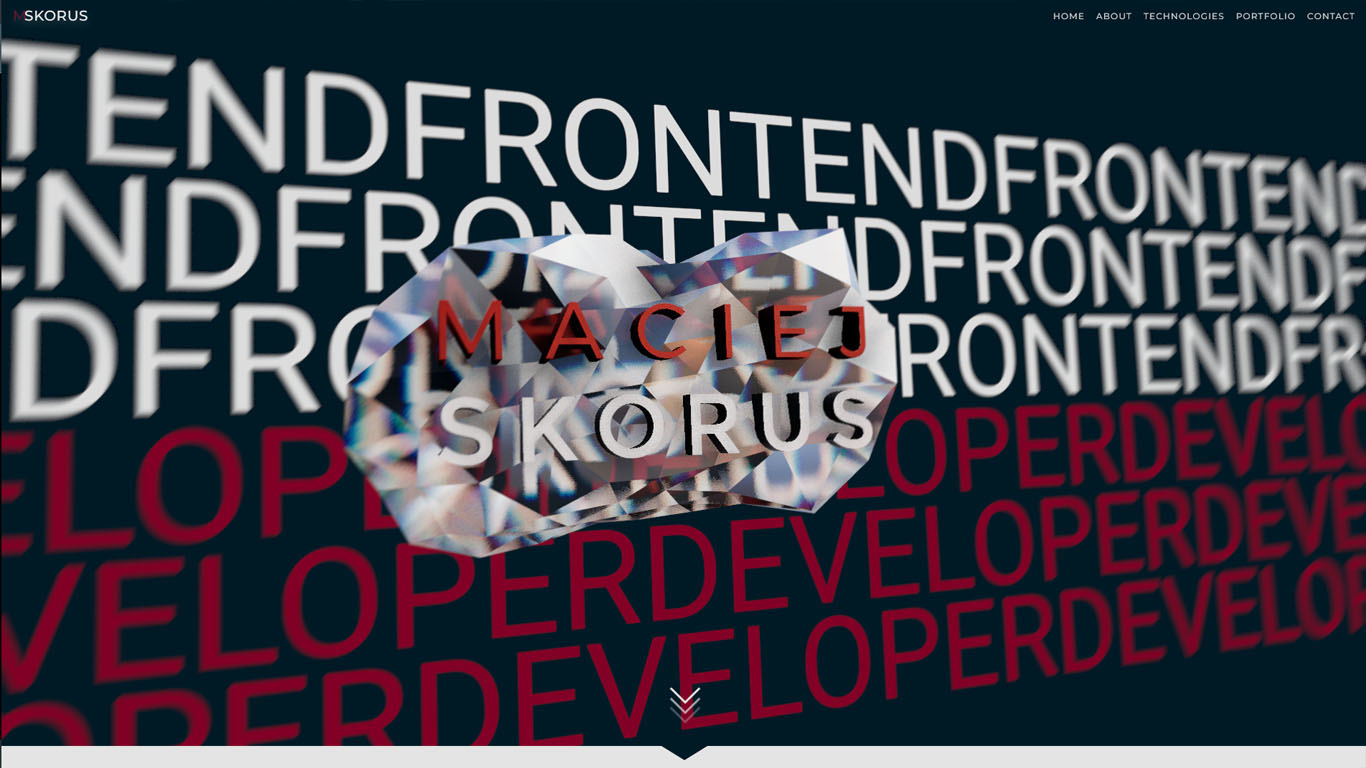
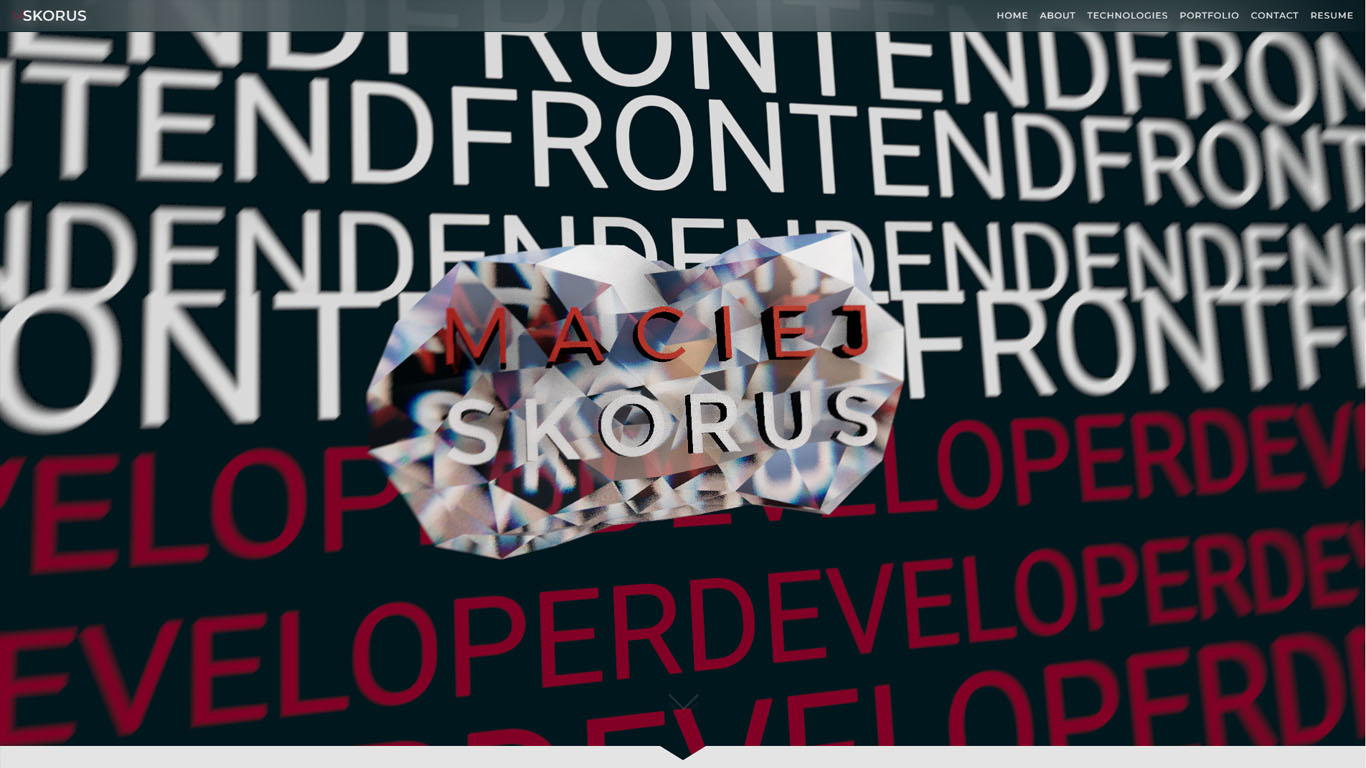
feat: responsive contact, intersection observer for WebGL scene

diff --git a/src/components/Contact/Contact.tsx b/src/components/Contact/Contact.tsx
@@ -5,61 +5,59 @@ export default function Contact(): JSX.Element {
   return (
     <section
       id='contact'
-      className='font-mont ny-20 relative flex h-auto w-full flex-col items-center justify-center bg-white'
+      className='font-mont ny-20 relative flex h-auto w-full flex-col items-center justify-center overflow-hidden bg-white'
     >
       <div className='arrow-down blue' />
       <h3 className='font-mont text-primary-blue -left-6 top-[150px] mt-[60px] text-xl font-[500] leading-3 tracking-[10px] md:absolute md:mt-0 md:-rotate-90'>
         CONTACT
       </h3>
-      <div className='gradient-slow border-primary-blue my-20 mt-10 flex h-[500px] w-[400px] flex-col items-center gap-3 border-t-2 text-white md:my-20 md:flex-col'>
+      <div className='gradient-slow border-primary-blue xsm:w-[450px] my-20 mt-10 flex h-full w-full flex-col items-center gap-3 border-t-2 text-white md:my-20 md:flex-col'>
         <IoMailOpenSharp className='text-primary-blue my-2 text-center text-8xl' />
-        <form>
-          <div className='flex justify-between gap-2'>
-            <div className='relative h-11 w-full min-w-[180px]'>
+        <form className='w-full px-6'>
+          <div className='xsm:flex-row xsm:gap-2 mb-3 flex w-full flex-col justify-between gap-5'>
+            <div className='xsm:min-w-[180px] relative h-11 w-full'>
               <input
-                className='focus:border-orange border-primary-blue text-primary-blue placeholder-shown:border-primary-blue disabled:bg-primary-blue peer h-full w-full border-b bg-transparent pb-1.5 pt-4 font-sans text-sm font-normal outline outline-0 transition-all focus:outline-0 disabled:border-0'
+                className='focus:border-orange border-primary-blue placeholder-shown:border-primary-blue disabled:bg-primary-blue font-mont peer h-full w-full border-b bg-transparent px-2 pb-1.5 pt-4 text-sm font-[500] text-white outline outline-0 transition-all focus:outline-0 disabled:border-0'
                 placeholder=' '
               />
-              <label className="after:content[' '] pointer-events-none absolute -top-1.5 left-0 flex h-full w-full select-none text-[11px] font-normal leading-tight text-white transition-all after:absolute after:-bottom-1.5 after:block after:w-full after:scale-x-0 after:border-b-2 after:border-white after:transition-transform after:duration-300 peer-placeholder-shown:text-sm peer-placeholder-shown:leading-[4.25] peer-placeholder-shown:text-white peer-focus:text-[11px] peer-focus:leading-tight peer-focus:text-white peer-focus:after:scale-x-100 peer-focus:after:border-white peer-disabled:text-transparent peer-disabled:peer-placeholder-shown:text-white">
+              <label className="after:content[' '] after: text-primary-blue pointer-events-none absolute -top-1.5 left-0 flex h-full w-full select-none text-[11px] font-normal leading-tight transition-all after:absolute after:-bottom-1.5 after:block after:w-full after:scale-x-0 after:border-b-2 after:border-white after:transition-transform after:duration-300 peer-placeholder-shown:text-sm peer-placeholder-shown:leading-[4.25] peer-placeholder-shown:text-white peer-focus:text-[11px] peer-focus:leading-tight peer-focus:text-white peer-focus:after:scale-x-100 peer-focus:after:border-white peer-disabled:text-transparent peer-disabled:peer-placeholder-shown:text-white">
                 Your name
               </label>
             </div>
             <div className='relative h-11 w-full min-w-[180px]'>
               <input
-                className='focus:border-orange border-primary-blue text-primary-blue placeholder-shown:border-primary-blue disabled:bg-primary-blue peer h-full w-full border-b bg-transparent pb-1.5 pt-4 font-sans text-sm font-normal outline outline-0 transition-all focus:outline-0 disabled:border-0'
+                className='focus:border-orange border-primary-blue placeholder-shown:border-primary-blue disabled:bg-primary-blue font-mont peer h-full w-full border-b bg-transparent px-2 pb-1.5 pt-4 text-sm font-[500] text-white outline outline-0 transition-all focus:outline-0 disabled:border-0'
                 placeholder=' '
               />
-              <label className="after:content[' '] pointer-events-none absolute -top-1.5 left-0 flex h-full w-full select-none text-[11px] font-normal leading-tight text-white transition-all after:absolute after:-bottom-1.5 after:block after:w-full after:scale-x-0 after:border-b-2 after:border-white after:transition-transform after:duration-300 peer-placeholder-shown:text-sm peer-placeholder-shown:leading-[4.25] peer-placeholder-shown:text-white peer-focus:text-[11px] peer-focus:leading-tight peer-focus:text-white peer-focus:after:scale-x-100 peer-focus:after:border-white peer-disabled:text-transparent peer-disabled:peer-placeholder-shown:text-white">
+              <label className="after:content[' '] after: text-primary-blue pointer-events-none absolute -top-1.5 left-0 flex h-full w-full select-none text-[11px] font-normal leading-tight transition-all after:absolute after:-bottom-1.5 after:block after:w-full after:scale-x-0 after:border-b-2 after:border-white after:transition-transform after:duration-300 peer-placeholder-shown:text-sm peer-placeholder-shown:leading-[4.25] peer-placeholder-shown:text-white peer-focus:text-[11px] peer-focus:leading-tight peer-focus:text-white peer-focus:after:scale-x-100 peer-focus:after:border-white peer-disabled:text-transparent peer-disabled:peer-placeholder-shown:text-white">
                 Your mail
               </label>
             </div>
           </div>
-          <div className='mx-1 mt-2 flex flex-col gap-3'>
-            <label
-              htmlFor='subject'
-              className='mb-2 block text-sm font-medium text-gray-900 dark:text-white'
-            >
-              Subject
-            </label>
-            <input
-              id='subject'
-              className='focus:bg-real-white border-primary-blue focus:ring-none -mt-4 block w-full border border-t-[2px] bg-[#f1f1f1] p-2.5 text-sm text-black duration-150 focus:border-none'
-              placeholder='Subject'
-            />
-
-            <label
-              htmlFor='message'
-              className='mb-2 block text-sm font-medium text-gray-900 dark:text-white'
-            >
-              Your message
-            </label>
-            <textarea
-              id='message'
-              rows={9}
-              className='focus:bg-real-white border-primary-blue -mt-4 block w-full border border-t-[2px] bg-[#f1f1f1] p-2.5 text-sm text-black duration-150 focus:border-transparent focus:ring-transparent'
-              placeholder='Aa'
-            />
+          <div className='flex w-full flex-col gap-3'>
+            <div className='relative mt-3 h-11 w-full min-w-[180px]'>
+              <input
+                className='focus:border-orange border-primary-blue placeholder-shown:border-primary-blue disabled:bg-primary-blue font-mont peer h-full w-full border-b bg-transparent px-2 pb-1.5 pt-4 text-sm font-[500] text-white outline outline-0 transition-all focus:outline-0 disabled:border-0'
+                placeholder=' '
+              />
+              <label className="after:content[' '] after: text-primary-blue pointer-events-none absolute -top-1.5 left-0 flex h-full w-full select-none text-[11px] font-normal leading-tight transition-all after:absolute after:-bottom-1.5 after:block after:w-full after:scale-x-0 after:border-b-2 after:border-white after:transition-transform after:duration-300 peer-placeholder-shown:text-sm peer-placeholder-shown:leading-[4.25] peer-placeholder-shown:text-white peer-focus:text-[11px] peer-focus:leading-tight peer-focus:text-white peer-focus:after:scale-x-100 peer-focus:after:border-white peer-disabled:text-transparent peer-disabled:peer-placeholder-shown:text-white">
+                Subject
+              </label>
+            </div>
+            <div className='relative mt-3 h-[250px] w-full min-w-[180px]'>
+              <textarea
+                className='font-mont peer h-[250px] w-full resize-none border-none  border-transparent bg-transparent px-2 pb-1.5 pt-4 text-sm font-[500] text-white outline-none transition-all focus:border-none focus:border-transparent focus:shadow-none focus:outline-none focus:ring-0 focus:drop-shadow-none disabled:border-0'
+                placeholder=' '
+              />
+              <div className='bg-primary-blue xsm:w-[404px] -mt-1 h-[1px] w-full' />
+              <label className="after:content[' '] text-primary-blue pointer-events-none absolute -top-1.5 left-0 flex h-full w-full select-none text-[11px] font-normal leading-tight transition-all after:absolute after:-bottom-1.5 after:block after:w-full after:scale-x-0 after:border-b-2 after:border-white after:transition-transform after:duration-300 peer-placeholder-shown:text-sm peer-placeholder-shown:leading-[4.25] peer-placeholder-shown:text-white peer-focus:text-[11px] peer-focus:leading-tight peer-focus:text-white peer-focus:after:scale-x-100 peer-focus:after:border-white peer-disabled:text-transparent peer-disabled:peer-placeholder-shown:text-white">
+                Message
+              </label>
+            </div>
           </div>
+          <button className='bg-primary-blue hover:text-raspberry mb-5 mt-2 w-full py-3 text-xl tracking-[6px] text-white duration-150 hover:bg-white hover:font-[500] hover:tracking-[10px]'>
+            SEND
+          </button>
         </form>
       </div>
     </section>

diff --git a/src/components/Hero/Hero.tsx b/src/components/Hero/Hero.tsx
@@ -9,6 +9,7 @@ import { Canvas, useFrame } from '@react-three/fiber';
 import { EffectComposer, N8AO, TiltShift2 } from '@react-three/postprocessing';
 import { easing } from 'maath';
 import React, { Suspense } from 'react';
+import { useInView } from 'react-intersection-observer';
 
 import DesktopScene from '@/components/Hero/Partials/DesktopScene';
 import ScrollButton from '@/components/Hero/Partials/ScrollButton';
@@ -50,47 +51,54 @@ function Loader() {
 }
 
 export default function Hero(): JSX.Element {
+  const [ref, inView] = useInView({
+    triggerOnce: true, // Just trigger once when it comes into view
+    threshold: 0.5, // Intersection ratio at which to trigger the inView state change
+  });
   return (
     <section
+      ref={ref}
       id='home'
       className='font-mont -mt-[45px] flex h-[99vh] w-full flex-col items-center justify-center bg-[#001a2500]'
     >
-      <Canvas
-        shadows
-        camera={{ position: [0, 0, -21], fov: 50 }}
-        dpr={[0.25, 1]}
-        eventPrefix='client'
-        gl={{ antialias: false }}
-        className='min-h-[97vh]'
-      >
-        <color attach='background' args={[0 / 3072, 26 / 3072, 37 / 3072]} />
-        <Rig />
-        <spotLight
-          position={[20, 20, 10]}
-          penumbra={1}
-          castShadow
-          angle={0.2}
-        />
-        <Suspense fallback={<Loader />}>
-          <EffectComposer disableNormalPass>
-            <N8AO aoRadius={5} intensity={15} />
-            <TiltShift2 blur={0.125} />
-          </EffectComposer>
+      {inView && (
+        <Canvas
+          shadows
+          camera={{ position: [0, 0, -21], fov: 50 }}
+          dpr={[0.25, 1]}
+          eventPrefix='client'
+          gl={{ antialias: false }}
+          className='min-h-[97vh]'
+        >
+          <color attach='background' args={[0 / 3072, 26 / 3072, 37 / 3072]} />
+          <Rig />
+          <spotLight
+            position={[20, 20, 10]}
+            penumbra={1}
+            castShadow
+            angle={0.2}
+          />
+          <Suspense fallback={<Loader />}>
+            <EffectComposer disableNormalPass>
+              <N8AO aoRadius={5} intensity={15} />
+              <TiltShift2 blur={0.125} />
+            </EffectComposer>
 
-          <Environment preset='sunset'>
-            <Lightformer
-              intensity={8}
-              position={[10, 5, 0]}
-              scale={[15, 50, 1]}
-              onUpdate={(self) => self.lookAt(0, 0, 0)}
-            />
-          </Environment>
+            <Environment preset='sunset'>
+              <Lightformer
+                intensity={8}
+                position={[10, 5, 0]}
+                scale={[15, 50, 1]}
+                onUpdate={(self) => self.lookAt(0, 0, 0)}
+              />
+            </Environment>
 
-          <Float floatIntensity={2}>
-            <DesktopScene />
-          </Float>
-        </Suspense>
-      </Canvas>
+            <Float floatIntensity={2}>
+              <DesktopScene />
+            </Float>
+          </Suspense>
+        </Canvas>
+      )}
       <ScrollButton />
       <div className='flex w-full'>
         <div className='z-20 -mt-[20px] h-[20px] w-full bg-white' />

diff --git a/src/components/layout/Footer/Footer.tsx b/src/components/layout/Footer/Footer.tsx
@@ -6,7 +6,7 @@ export default function Footer(): JSX.Element {
   const currentYear = new Date().getFullYear();
   return (
     <footer className='font-mont bg-primary-blue flex min-h-[20vh] w-full flex-col items-center'>
-      <div className='w-full min-w-[350px] px-2 xl:w-[1100px] xl:px-0'>
+      <div className='w-full min-w-[250px] px-2 xl:w-[1100px] xl:px-0'>
         <div className='arrow-down white' />
         <p className='font-mont relative ml-3 text-start text-2xl font-[400] text-white'>
           <span className='text-raspberry'>M</span>
@@ -35,7 +35,7 @@ export default function Footer(): JSX.Element {
           </motion.div>
           <div className='font-mont text-primary-blue flex w-full flex-row-reverse items-center gap-2'>
             <IoDocumentTextSharp className='hover:text-raspberry cursor-pointer text-[88px] duration-150' />
-            <div className='flex flex-col items-end'>
+            <div className='flex flex-col items-end '>
               <h3 className='font-mont text-xl font-[500] tracking-wide'>
                 RESUME
               </h3>

diff --git a/src/components/Hero/Partials/DesktopScene.tsx b/src/components/Hero/Partials/DesktopScene.tsx
@@ -58,7 +58,7 @@ const DesktopScene = (props: any) => {
         >
           <MeshTransmissionMaterial
             backsideThickness={10}
-            thickness={2}
+            thickness={1}
             distortionScale={1}
             temporalDistortion={1}
             transmission={1}
@@ -76,18 +76,18 @@ const DesktopScene = (props: any) => {
           FRONTENDFRONTENDFRONTENDFRONTENDFRONTEND
         </Text>
         <Text
-          fontSize={6}
+          fontSize={7}
           letterSpacing={0}
           color='#e4e4e4'
           {...props}
-          position={[10, 12, -20]}
+          position={[10, 12, -17]}
         >
           FRONTENDFRONTENDFRONTENDFRONTENDFRONTEND
         </Text>
         <Text
-          fontSize={6}
+          fontSize={8}
           letterSpacing={0}
-          color='#e4e4e4'
+          color='#992210'
           {...props}
           position={[5, 8, -25]}
         >

diff --git a/src/components/layout/Header/Header.tsx b/src/components/layout/Header/Header.tsx
@@ -1,7 +1,6 @@
 import React from 'react';
 
 import Desktop from '@/components/layout/Header/Partials/Desktop';
-import Mobile from '@/components/layout/Header/Partials/Mobile';
 
 const links = [
   { href: '/#home', label: 'Home' },
@@ -31,7 +30,7 @@ export default function Header(): JSX.Element {
         </span>
       </a>
       <div className='justify-betweenflex h-14 items-center'>
-        <Mobile links={links} />
+        {/* <Mobile links={links} /> */}
         <Desktop links={links} />
       </div>
     </header>

diff --git a/tailwind.config.ts b/tailwind.config.ts
@@ -21,6 +21,9 @@ export default {
       },
     },
     screens: {
+      xsm: '480px',
+      // => @media (min-width: 480px) { ... }
+
       sm: '640px',
       // => @media (min-width: 640px) { ... }
 
